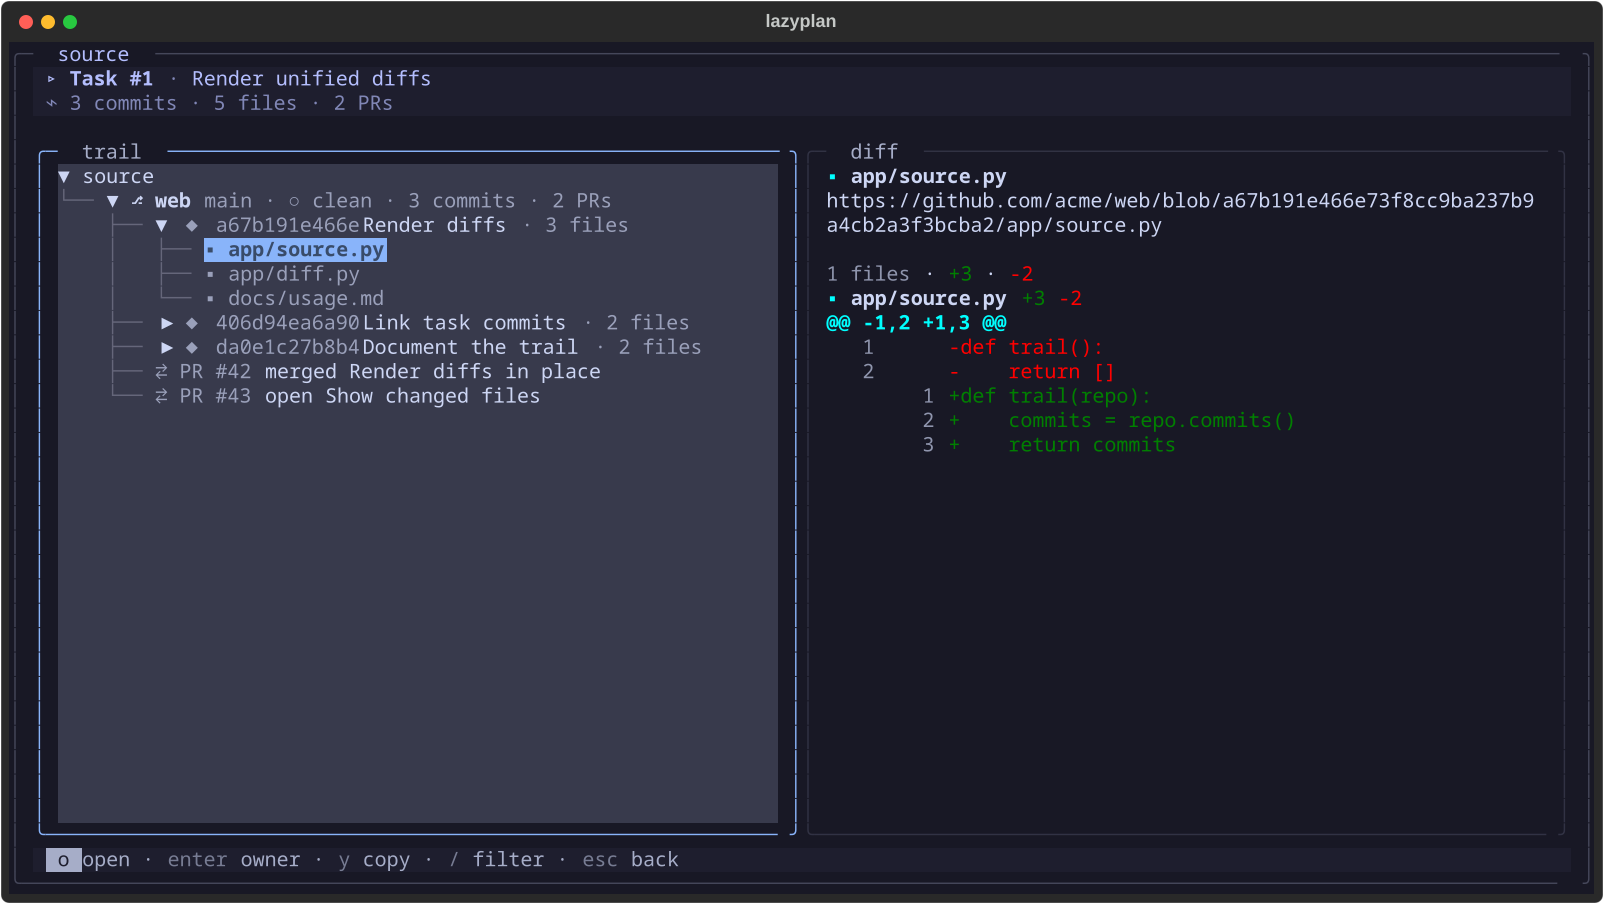
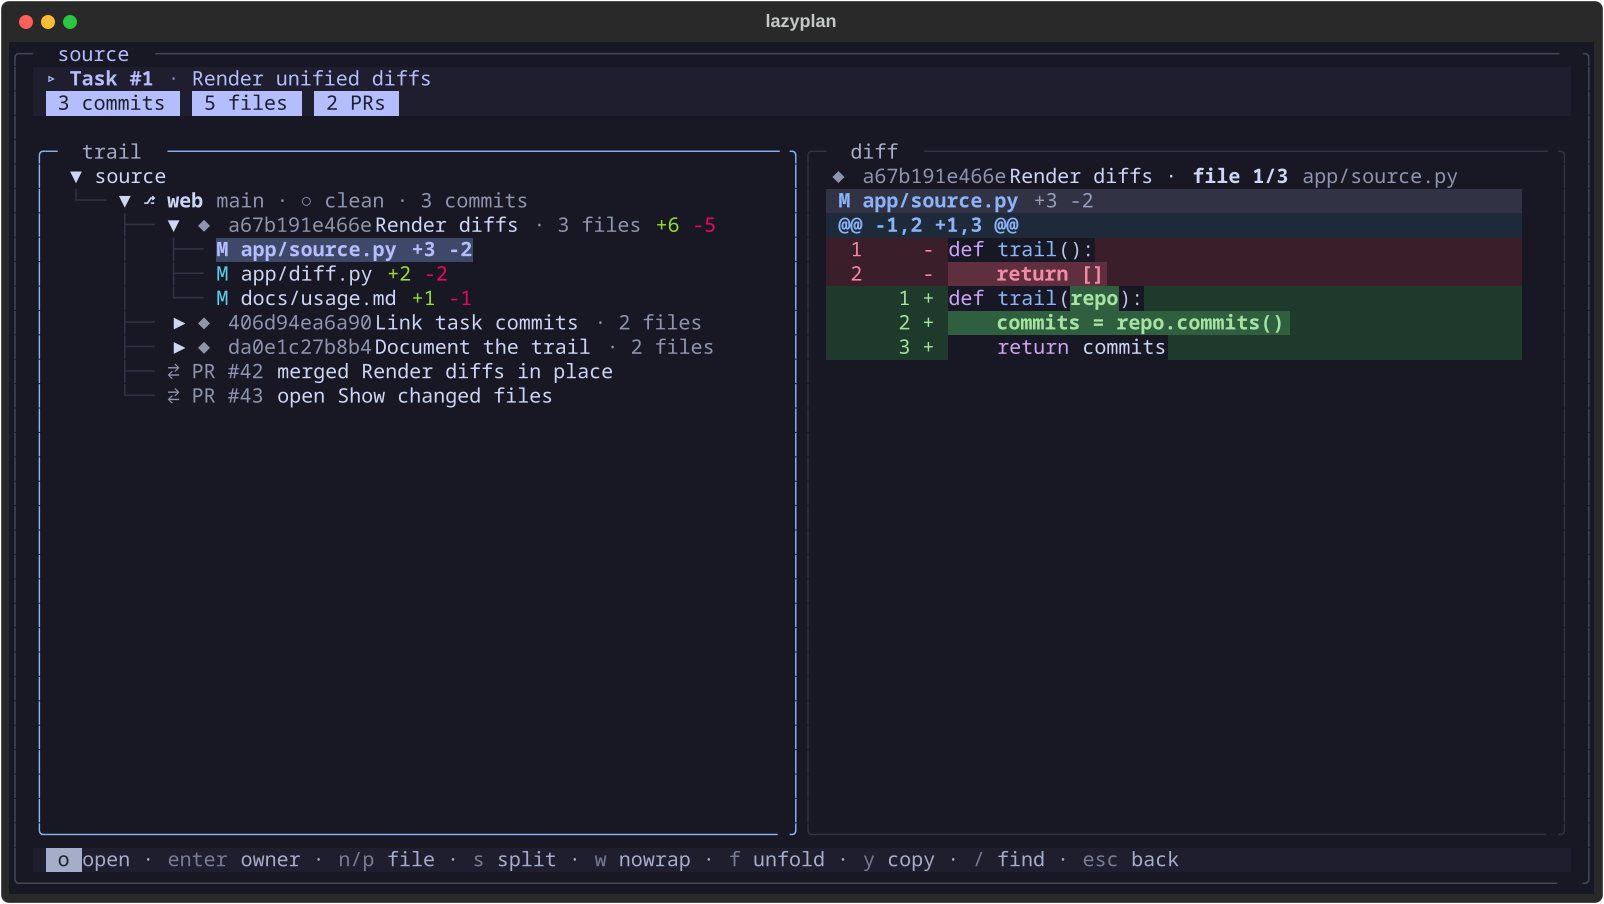
docs(shots): capture the redesigned source and plan diffs

diff --git a/tools/capture-ux-review.py b/tools/capture-ux-review.py
@@ -58,6 +58,7 @@ from lazyplan.presentation.tui.screens import (  # noqa: E402
     NewPlanScreen,
     NewTaskScreen,
     PaletteScreen,
+    PlanDiffScreen,
     RefScreen,
     SourceScreen,
     TextScreen,
@@ -79,7 +80,6 @@ from lazyplan.presentation.tui.screens.hub_provenance import (  # noqa: E402
     ActivityHub,
     PullRequestHub,
 )
-from lazyplan.presentation.tui.views.diff import diff_text  # noqa: E402
 from lazyplan.store import Store  # noqa: E402
 
 SIZE = cs.SIZE
@@ -418,10 +418,16 @@ def _modal_scene(
 # -- source captures ------------------------------------------------------
 
 
-async def _capture_source(store: Store, target: Path, task_title: str, pick: str) -> None:
+async def _capture_source(
+    store: Store,
+    target: Path,
+    task_title: str,
+    pick: str,
+    size: tuple[int, int] = SIZE,
+) -> None:
     task_id = _task_id(store, task_title)
     app = create_app(str(store.path))
-    async with app.run_test(size=SIZE) as pilot:
+    async with app.run_test(size=size) as pilot:
         await pilot.pause()
         app.push_screen(SourceScreen(store, "task", task_id))
         await pilot.pause(0.45)
@@ -437,10 +443,16 @@ async def _capture_source(store: Store, target: Path, task_title: str, pick: str
             repo.children[0],
         )
         commit.expand()
+        for _ in range(20):
+            if any("M " in str(child.label) for child in commit.children):
+                break
+            await pilot.pause(0.05)
         tree.focus()
-        node = commit.children[0] if pick == "file" else commit
+        node = commit.children[0] if pick in ("file", "split") else commit
         await _select_preserving(tree, node, pilot)
         app.screen._preview(node)
+        if pick == "split":
+            app.screen.action_toggle_split()
         await pilot.pause(0.5)
         app.save_screenshot(str(target))
 
@@ -455,12 +467,24 @@ def _source_scene(
     build: Callable[[Path], Store | None],
     task_title: str,
     pick: str,
+    size: tuple[int, int] = SIZE,
 ) -> Scene:
     async def capture(store: Store | None, target: Path) -> None:
         assert store is not None
-        await _capture_source(store, target, task_title, pick)
+        await _capture_source(store, target, task_title, pick, size)
 
-    return Scene(id, "source", title, state, description, look_for, keys, build, capture)
+    return Scene(
+        id,
+        "source",
+        title,
+        state,
+        description,
+        look_for,
+        keys,
+        build,
+        capture,
+        size,
+    )
 
 
 # -- transcript captures --------------------------------------------------
@@ -922,6 +946,22 @@ def scenes() -> list[Scene]:
                 "Render unified diffs",
                 "file",
             ),
+            _source_scene(
+                "source-split",
+                "Side-by-side diff",
+                "Split diff",
+                "One file paired old and new, with status, counts, word-level emphasis, and wrapped lines.",
+                (
+                    "Do paired rows read faster than the unified view?",
+                    "Is the separator obvious at this width?",
+                    "When should split turn itself off?",
+                ),
+                "s unified · w wrap · f fold · n/p file",
+                source,
+                "Render unified diffs",
+                "split",
+                (170, 40),
+            ),
             Scene(
                 "source-empty",
                 "source",
@@ -1252,16 +1292,16 @@ def scenes() -> list[Scene]:
             ),
             Scene(
                 "form-plan-diff",
-                "forms",
-                "Plan diff",
-                "Scope changes since approval",
-                "The read-only plan diff overlay: summary counts, each changed row, and the recorded reason.",
+                "source",
+                "Plan scope diff",
+                "Drifted plan",
+                "The dedicated plan diff: summary chips, sections by kind, before and after blocks, and the reason for each change.",
                 (
-                    "Can you tell what changed without the code?",
-                    "Do the change glyphs need a legend?",
-                    "Is the reason attached to the right row?",
+                    "Is the summary enough to decide whether to approve?",
+                    "Do the before and after blocks read as one change?",
+                    "Are reasons visible without crowding the rows?",
                 ),
-                "esc close · c commands",
+                "esc back · q quit",
                 ux,
                 _capture_plan_diff,
             ),
@@ -1461,9 +1501,24 @@ async def _capture_export(store: Store, target: Path) -> None:
 
 
 async def _capture_plan_diff(store: Store, target: Path) -> None:
+    """Approve the fixture, add drift, and capture the dedicated diff screen."""
     plan_id = _plan_id(store)
+    plan = store.get_plan(plan_id)
+    if plan is None:
+        return
+    if not store.list_revisions(plan_id):
+        services.approve(store, plan_id, actor="fixture", reason="baseline")
+    store.update_plan(
+        plan_id,
+        description=(plan.description or "") + "\n\nScope added for the review.",
+        actor="fixture",
+    )
     result = services.diff(store, plan_id)
-    await _capture_modal(store, target, TextScreen(f"PLAN P{plan_id} DIFF", diff_text(result)))
+    app = create_app(str(store.path))
+    async with app.run_test(size=(120, 30)) as pilot:
+        app.push_screen(PlanDiffScreen(result))
+        await pilot.pause()
+        app.save_screenshot(str(target))
 
 
 async def _capture_palette_filtered(store: Store, target: Path) -> None:

diff --git a/tools/capture-screens.py b/tools/capture-screens.py
@@ -344,6 +344,10 @@ async def capture_source(store: Store, target: Path) -> None:
             if child.data.get("kind") == "commit" and "Render diffs" in str(child.label)
         )
         feature_node.expand()
+        for _ in range(20):
+            if any("M " in str(child.label) for child in feature_node.children):
+                break
+            await pilot.pause(0.05)
         tree.focus()
         await pilot.pause()
         tree.select_node(feature_node.children[0])
